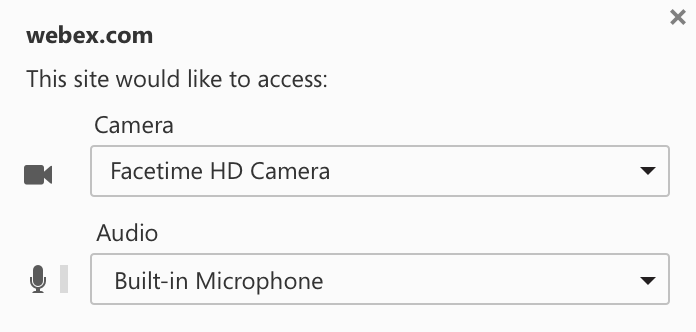
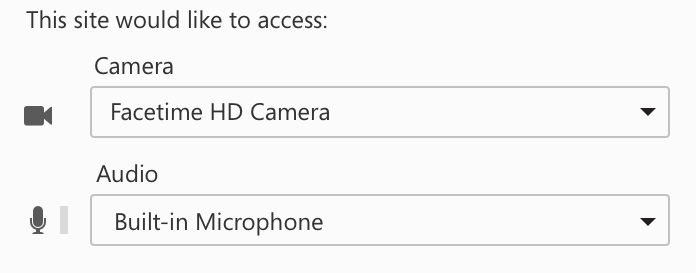
Replace the top of the doorhanger image with elements.

diff --git a/src/app.scss b/src/app.scss
@@ -304,6 +304,13 @@ h5 {
       background: $panelBackground;
     }
   }
+  .title {
+    font-weight: bold;
+    font-size: 11px;
+    padding: 6px 2px 2px 12px;
+    display: flex;
+    justify-content: space-between;
+  }
 }
 
 .FullImage {
@@ -542,7 +549,6 @@ h5 {
   border-radius: 2px;
   white-space: nowrap;
   .fa {
-    color: #FFF;
     padding: 0 10px;
   }
   .chevron {
@@ -550,6 +556,20 @@ h5 {
     padding: 5px;
     line-height: 15px;
   }
+}
+
+.Button.minimal {
+  display: inline-block;
+  right: 3px;
+  margin-top: -3px;
+  padding: 0px;
+  background: inherit;
+  border: none;
+  color: #888;
+  .fa {
+    padding: 0px;
+  }
+
 }
 
 .ButtonGroup {

diff --git a/src/views/Panel.jsx b/src/views/Panel.jsx
@@ -1,8 +1,15 @@
 /** @jsx React.DOM */
+var Button = require('./Button.jsx');
+
 module.exports = React.createClass({
   render: function() {
     return (
       <div className={"Panel " + this.props.extraClass}>
+        <div className="title">
+          <span>mozilla.org</span>
+          <Button style="minimal" id="close" icon="times"
+            onClick={this.props.toggleDropdown}/>
+        </div>
         { this.props.children }
       </div>
     )

diff --git a/src/views/UrlbarSharing.jsx b/src/views/UrlbarSharing.jsx
@@ -17,6 +17,7 @@ module.exports = React.createClass({
             isSharingVisible={ this.props.isSharingVisible }
             isDropdownVisible={ this.props.isDropdownVisible }
             shareDevices={ this.props.shareDevices }
+            toggleDropdown={ this.props.toggleDropdown }
             image='new-doorhanger' />
         <Button text="Request sharing" style="default"
           onClick={this.props.requestSharing}/>

diff --git a/src/views/SharingDoorhanger.jsx b/src/views/SharingDoorhanger.jsx
@@ -13,7 +13,8 @@ module.exports = React.createClass({
     return (
       <div className={ "PanelWrapper " + (this.props.isDropdownVisible ? "shown" : "hidden") }>
         <PanelGroup>
-          <Panel items={ this.props.items }>
+          <Panel items={ this.props.items }
+            toggleDropdown={ this.props.toggleDropdown }>
             <FullImage image={ this.props.image } />
             {footer}
           </Panel>

diff --git a/src/views/GlobalSharing.jsx b/src/views/GlobalSharing.jsx
@@ -15,6 +15,7 @@ module.exports = React.createClass({
           isSharingVisible={ this.props.isSharingVisible }
           isDropdownVisible={ this.props.isDropdownVisible }
           shareDevices={ this.props.shareDevices }
+          toggleDropdown={ this.props.toggleDropdown }
           image='new-doorhanger' />
       </div>
     )

diff --git a/src/views/Button.jsx b/src/views/Button.jsx
@@ -4,7 +4,7 @@ module.exports = React.createClass({
     var icon, chevron;
     if(this.props.icon)
     {
-      icon = <i className={"fa " + this.props.icon}></i>
+      icon = <i className={"fa fa-" + this.props.icon}></i>
     }
     if(this.props.hasRightChevron)
     {
